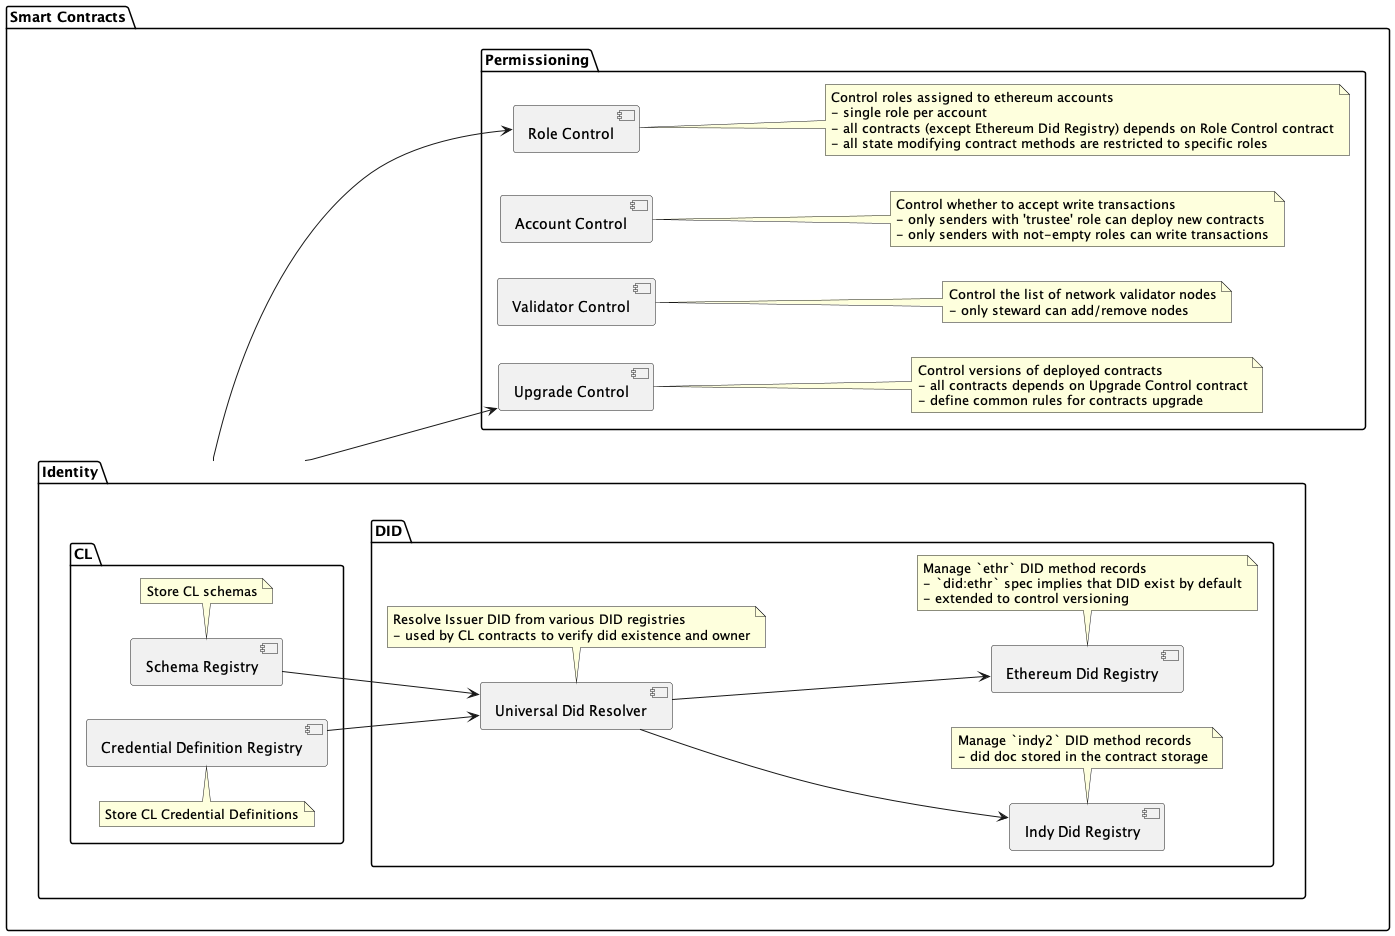
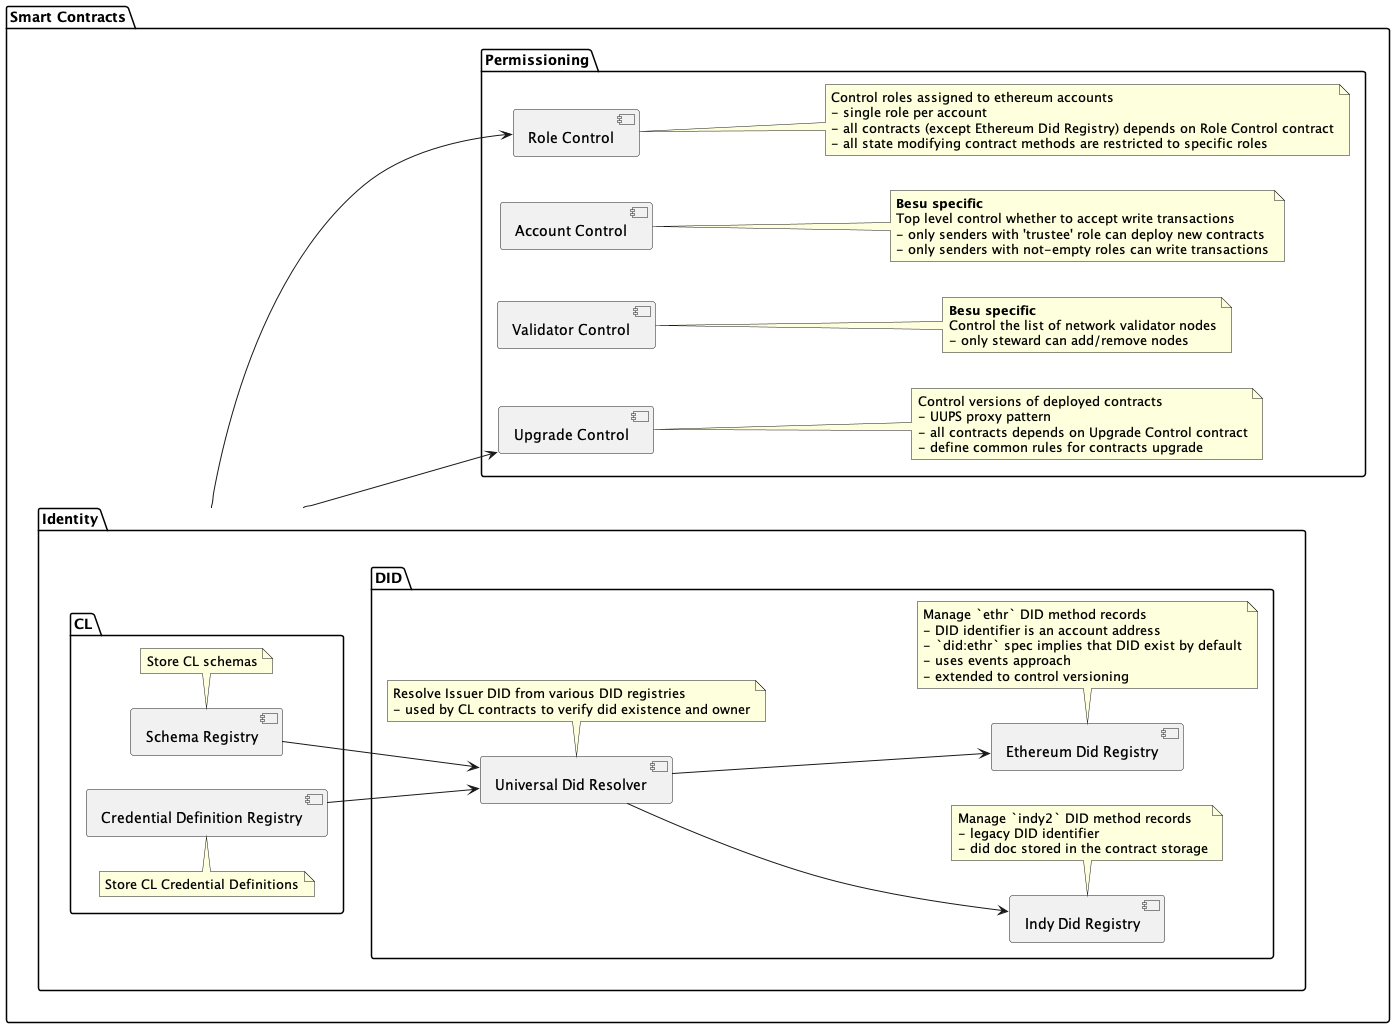
Added flow diagram

diff --git a/indy-besu/docs/design/registry.md b/indy-besu/docs/design/registry.md
@@ -8,7 +8,7 @@ The main question is whether we need to validate storing object or not?
 #### Pros
 
 * Only mostly correct data written on the ledger
-  * Perform full validation is really difficult in solidity 
+  * byt we do only [part of the validation](#validation-we-do-for-the-moment) - perform the full validation is really difficult in solidity 
 
 #### Cons
 
@@ -27,9 +27,12 @@ The main question is whether we need to validate storing object or not?
           we have to restore its original form
 * Inferiority of the performed validation
 * Contract size is very big and exceed the limit for public network 
-  * Deployment limitation as contracts can be deployed only to gas free networks
+  * We had to change default contract size setting in the Besu config
+  * Deployment limitation, as contracts can be deployed only to gas free networks
 * Inefficient from the gas point of view
 * Finiteness as we can support only specific object versions and formats without upgrade
+  * For example, if new service type supported we need to update both: contract and VDR
+* Strong relationship with VDR library - it does conversion of formats 
 
 ##### Validation we do for the moment
 
@@ -78,5 +81,6 @@ The main question is whether we need to validate storing object or not?
 * Duplication:
   * Some fields must be passed as an independent parameters for doing obligatory state checks
     * Like issuer DID for schema and cred def 
-
+* Strong relationship with VDR library?
+  * VDR must perform the validation of sending data
 

diff --git a/indy-besu/docs/design/endorsement.md b/indy-besu/docs/design/endorsement.md
@@ -81,10 +81,11 @@ fn build_endorse_did_transaction(
 
 ### DID Ethr registry
 
-`did:ethr` allows using Ethereum addresses as identifier without prior its registration on the network, so that DID
-assume to be written by default.
+`did:ethr` allows using Ethereum addresses as identifier without prior its registration on the network. 
 
-Endorsement is available to modify DID properties via the set of contract methods:
+So that DID assume to be written by default -> endorsement is not needed.
+
+Endorsement is needed to modify DID properties, what can be done using the set of existing contract methods:
 
 ```
 function setAttributeSigned(address identity, uint8 sigV, bytes32 sigR, bytes32 sigS, bytes32 name, bytes memory value, uint validity)
@@ -97,6 +98,12 @@ function revokeDelegateSigned(address identity, uint8 sigV, bytes32 sigR, bytes3
 
 function changeOwnerSigned(address identity, uint8 sigV, bytes32 sigR, bytes32 sigS, address newOwner)
 ```
+
+#### Contracts
+
+Should we extend DidEthrRegistry contract to add roles check? 
+
+> We already extended `DidEthrRegistry` to use UpgradeControl
 
 #### VDR
 
